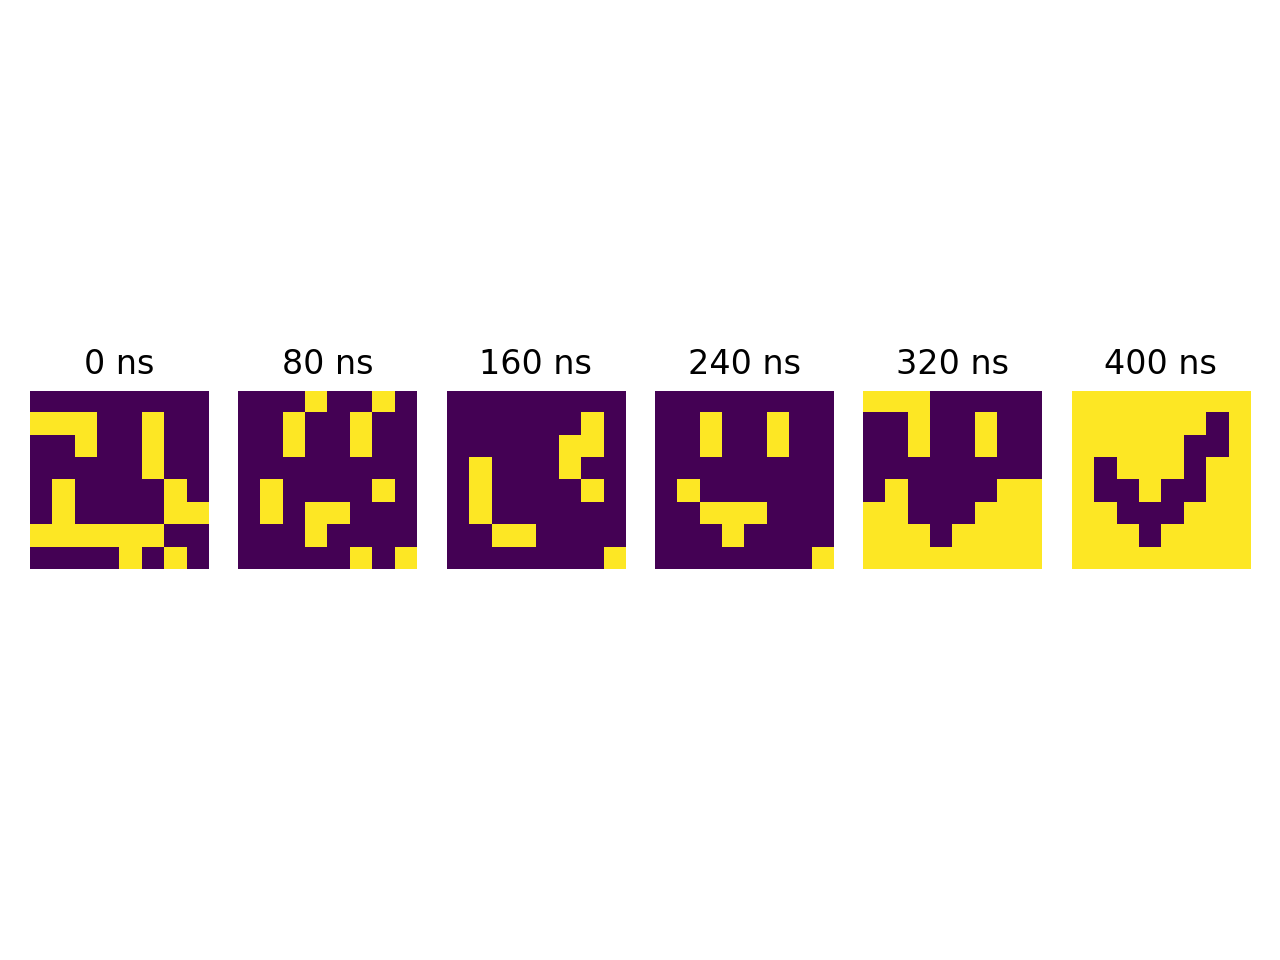
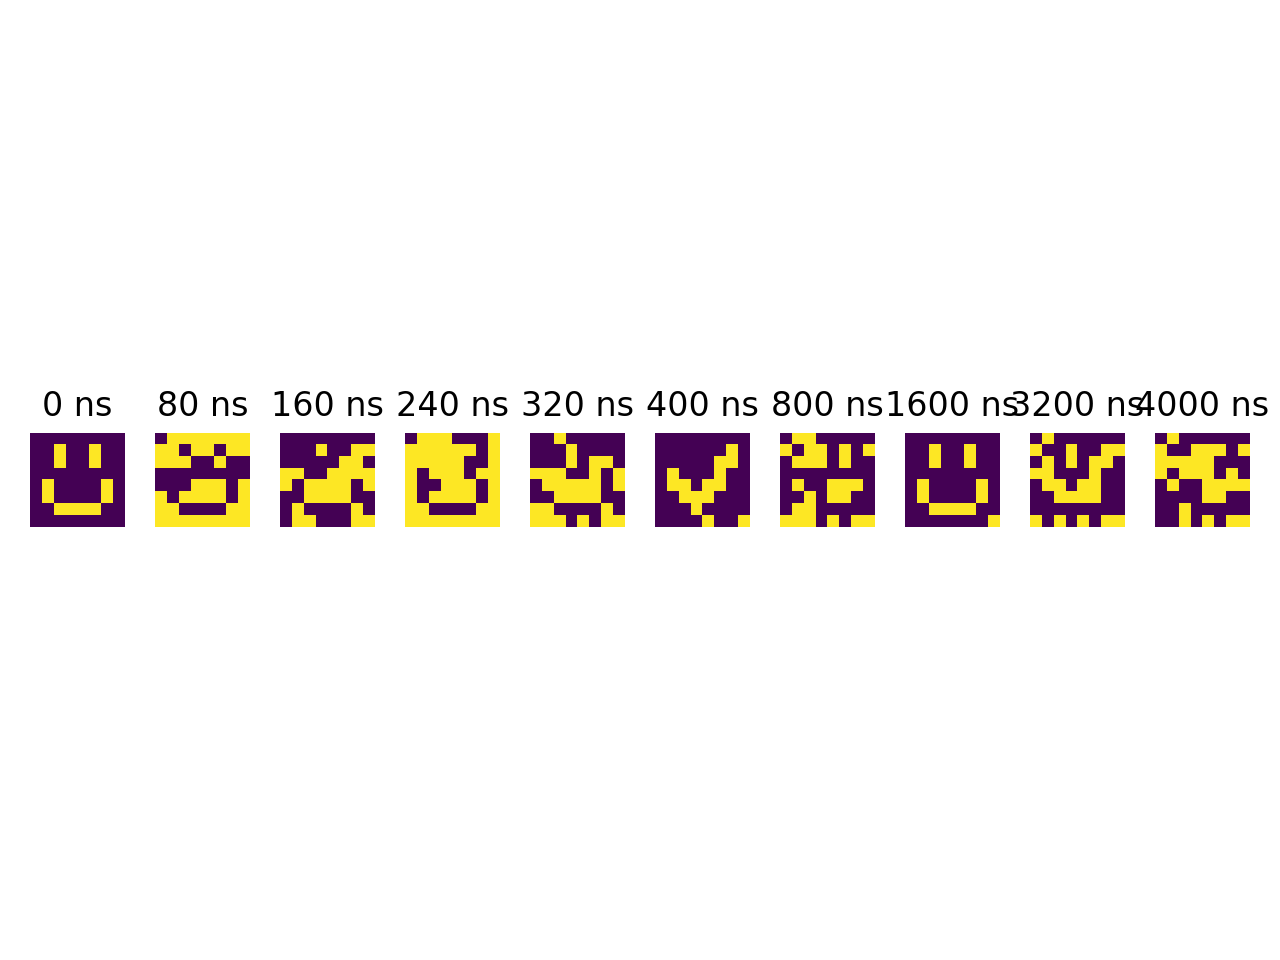
WIP tests

Changed region(s): [[0.0, 0.3438, 1.0, 0.5938]]

diff --git a/hopfield/hopfield_settle.py b/hopfield/hopfield_settle.py
@@ -31,7 +31,7 @@ check  = np.array([[-1, -1, -1, -1, -1, -1, -1, -1],
 
 # Make a noisy version of smiley
 noise = np.random.randint(10, size=(8,8))
-smiley_noise = [[-s if n == 0 else s for s, n in zip(sm, no)] for sm, no in zip(smiley, noise)]
+smiley_noise = smiley #[[-s if n == 0 else s for s, n in zip(sm, no)] for sm, no in zip(smiley, noise)]
 smiley_noise = np.array(smiley_noise)
 smiley_noise_1d = smiley_noise.reshape(64)
 
@@ -48,7 +48,7 @@ for i in range(64):
 ising = Ising(weights, digital_ising_size = 64, use_fpga = True)
 
 # DIMPLE params
-cycles = [20, 40, 60, 80, 100]
+cycles = [20, 40, 60, 80, 100, 200, 400, 800, 1000]
 
 # Use DIMPLE to recall smiley in steps
 smilies_out = [smiley_noise]

diff --git a/tests/optimizer/test_optimizer.py b/tests/optimizer/test_optimizer.py
@@ -80,7 +80,7 @@ def test_optimizer_fpga_rand():
         sampling_period=50,
         convergence_threshold=50,
         use_fpga = True,
-        cycles = 10000,
+        cycles = 10000000,
         shuffle_spins = True
     )
     fpga_elapsed = ising.time_elapsed
